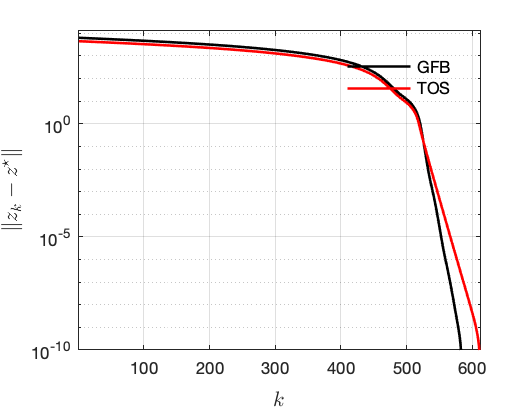
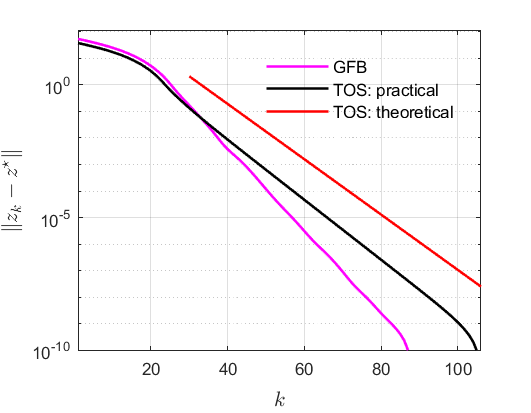
update rate estimation for TOS

diff --git a/codes/test_negMC.m b/codes/test_negMC.m
@@ -1,4 +1,4 @@
-clear all                
+clear all
 close all
 clc
 
@@ -6,8 +6,8 @@ warning off
 addpath toolbox/
 set(groot,'defaultLineLineWidth',1.5);
 %%
-n = [1, 1]* 500; % size of the mtx
-r = max(n)/20; % rank of the mtx
+n = [1, 1]* 50; % size of the mtx
+r = round(max(n)/25); % rank of the mtx
 
 % original x
 xL = rand(n(1), r) *1;
@@ -37,18 +37,23 @@ para.mu2 = 1;
 
 para.beta = 1;
 para.c_gamma = 1.0;
-%% GFB                          
+%% GFB
 [~,z11,z21] = func_GFB_meq2(para, proxR,projV,gradF, 0);
 [x1,z11,z21, its1, dk1, ek1] = func_GFB_meq2(para, proxR,projV,gradF, [z11,z21]);
 
 fprintf('\n');
-%% TOS                          
+%% TOS
 [~,z2] = func_TOS(para, proxR,projV,gradF, 0);
 [x2,z2, its2, dk2, ek2] = func_TOS(para, proxR,projV,gradF, z2);
 
 fprintf('\n');
-%% output Type: pdf or png
-outputType = 'png';
+%% rate estimation
+gamma = para.c_gamma * para.beta;
+A = diag(A(:)); 
+rho = calc_eta_mc(x2, A, gamma, b(:), para.mu1);
+%%
+k = 30;
+dkT = 2e1* dk2(k)* rho.^(1:length(dk2));
 %% plot ||zk - zsol||
 
 linewidth = 1.25;
@@ -62,8 +67,8 @@ axesFontSize = 8;
 labelFontSize = 10;
 legendFontSize = 8;
 
-% 
-% 
+%
+%
 
 figure(101), clf;
 % figure('visible', 'off'),
@@ -72,33 +77,33 @@ set(gcf,'paperunits','centimeters');
 set(gcf,'paperposition',[0 0 output_size/resolution]);
 set(gcf,'papersize',output_size/resolution-[0.6 0.3]);
 
-p1 = semilogy(dk1, 'k', 'LineWidth',linewidth);
+p1 = semilogy(dk1, 'm', 'LineWidth',linewidth);
 
 hold on;
-p2 = semilogy(dk2,'r', 'LineWidth',linewidth);
+p2 = semilogy(dk2,'k', 'LineWidth',linewidth);
+
+p3 = semilogy(k:length(dk2),dkT(1:length(dk2)-k+1),'r', 'LineWidth',linewidth);
 
 grid on;
 axis([1, its2, 1e-10, 2*dk1(1)]);
 
-% 
-% 
+%
+%
 
 ylabel({'$$\|z_k-z^\star\|$$'},...
     'FontSize', labelFontSize, 'FontAngle', 'normal', 'Interpreter', 'latex');
 xlabel({'\vspace{-1.25mm}';'$$k$$'},...
     'FontSize', labelFontSize, 'FontAngle', 'normal', 'Interpreter', 'latex');
 
-% 
-% 
+%
+%
 
 
-lg = legend([p1, p2], 'GFB', 'TOS');
+lg = legend([p1, p2, p3], 'GFB', 'TOS: practical', 'TOS: theoretical');
 set(lg,'FontSize', legendFontSize);
 legend('boxoff');
 
-epsname = sprintf('cmp_nMC_gfb_tos.%s', outputType);
-if strcmp(outputType, 'png')
-    print(epsname, '-dpng');
-else
-    print(epsname, '-dpdf');
-end
+filename = sprintf('cmp_nMC_gfb_tos.png');
+print(filename, '-dpng');
+filename = sprintf('cmp_nMC_gfb_tos.pdf');
+print(filename, '-dpdf');

diff --git a/codes/calc_eta_mc.m b/codes/calc_eta_mc.m
@@ -1,0 +1,31 @@
+function eta = calc_eta_mc(x, A, gamma, f, mu)
+
+[n1, n2] = size(x);
+r_ = rank(x);
+
+[UF,S,VF] = svd(x);
+U  = UF(:, 1:r_);
+V  = VF(:, 1:r_);
+S  = diag(S);
+S(r_+1:end) = 0;
+xp = U*diag(1./S(1:r_))*(V');
+gFx = reshape((A')*(A*x(:)-f), [n1, n2]);
+
+PT = @(h) U*(U')*h + h*V*(V') - U*(U')*h*V*(V');
+PS = @(h) h - PT(h);
+hessF = @(h) reshape((A')*A*h(:), [n1, n2]);
+G  = @(h) h - gamma*PT(hessF(h));
+weig = @(h,v) v*(h')*xp + xp*(h')*v;
+Q = @(h) gamma*(PT(hessJ(h, UF,VF,S, mu)) + weig(h,PS(gFx)));
+afun = @(h) reshape(reshape(h, [n1, n2])+Q(PT(reshape(h, [n1, n2]))),[n2^2 1]);
+
+h = ones(n1, n2);
+for i=1:1e3
+    % i
+    [hnew,~] = gmres(afun,reshape(G(PT(h)),[n2^2 1]));
+    hnew = reshape(hnew, [n1, n2]);
+    
+    eta = trace(hnew'*h)/norm(h,'fro')^2;%norm(h,'fro');
+    
+    h = hnew/norm(h,'fro');
+end

diff --git a/codes/toolbox/hessJ.m b/codes/toolbox/hessJ.m
@@ -1,0 +1,18 @@
+function HJ = hessJ(h,U,V,S,mu)
+
+[n,n] = size(U);
+HJ = zeros(n,n);
+hb = U'*h*V;
+
+for i=1:n
+  for j=1:n
+    if (S(i) | S(j)) & (i ~= j)
+      HJ(i,j) = (hb(i,j)-hb(j,i))/(S(j)+S(i));
+      %HJ(i,j) = (S(j)*(hb(i,j)-hb(j,i))+S(i)*(hb(j,i)-hb(i,j)))/(S(j)^2-S(i)^2);
+      %[i j HJ(i,j)]
+      %pause
+    end
+  end
+end
+
+HJ = mu*U*HJ*V';
